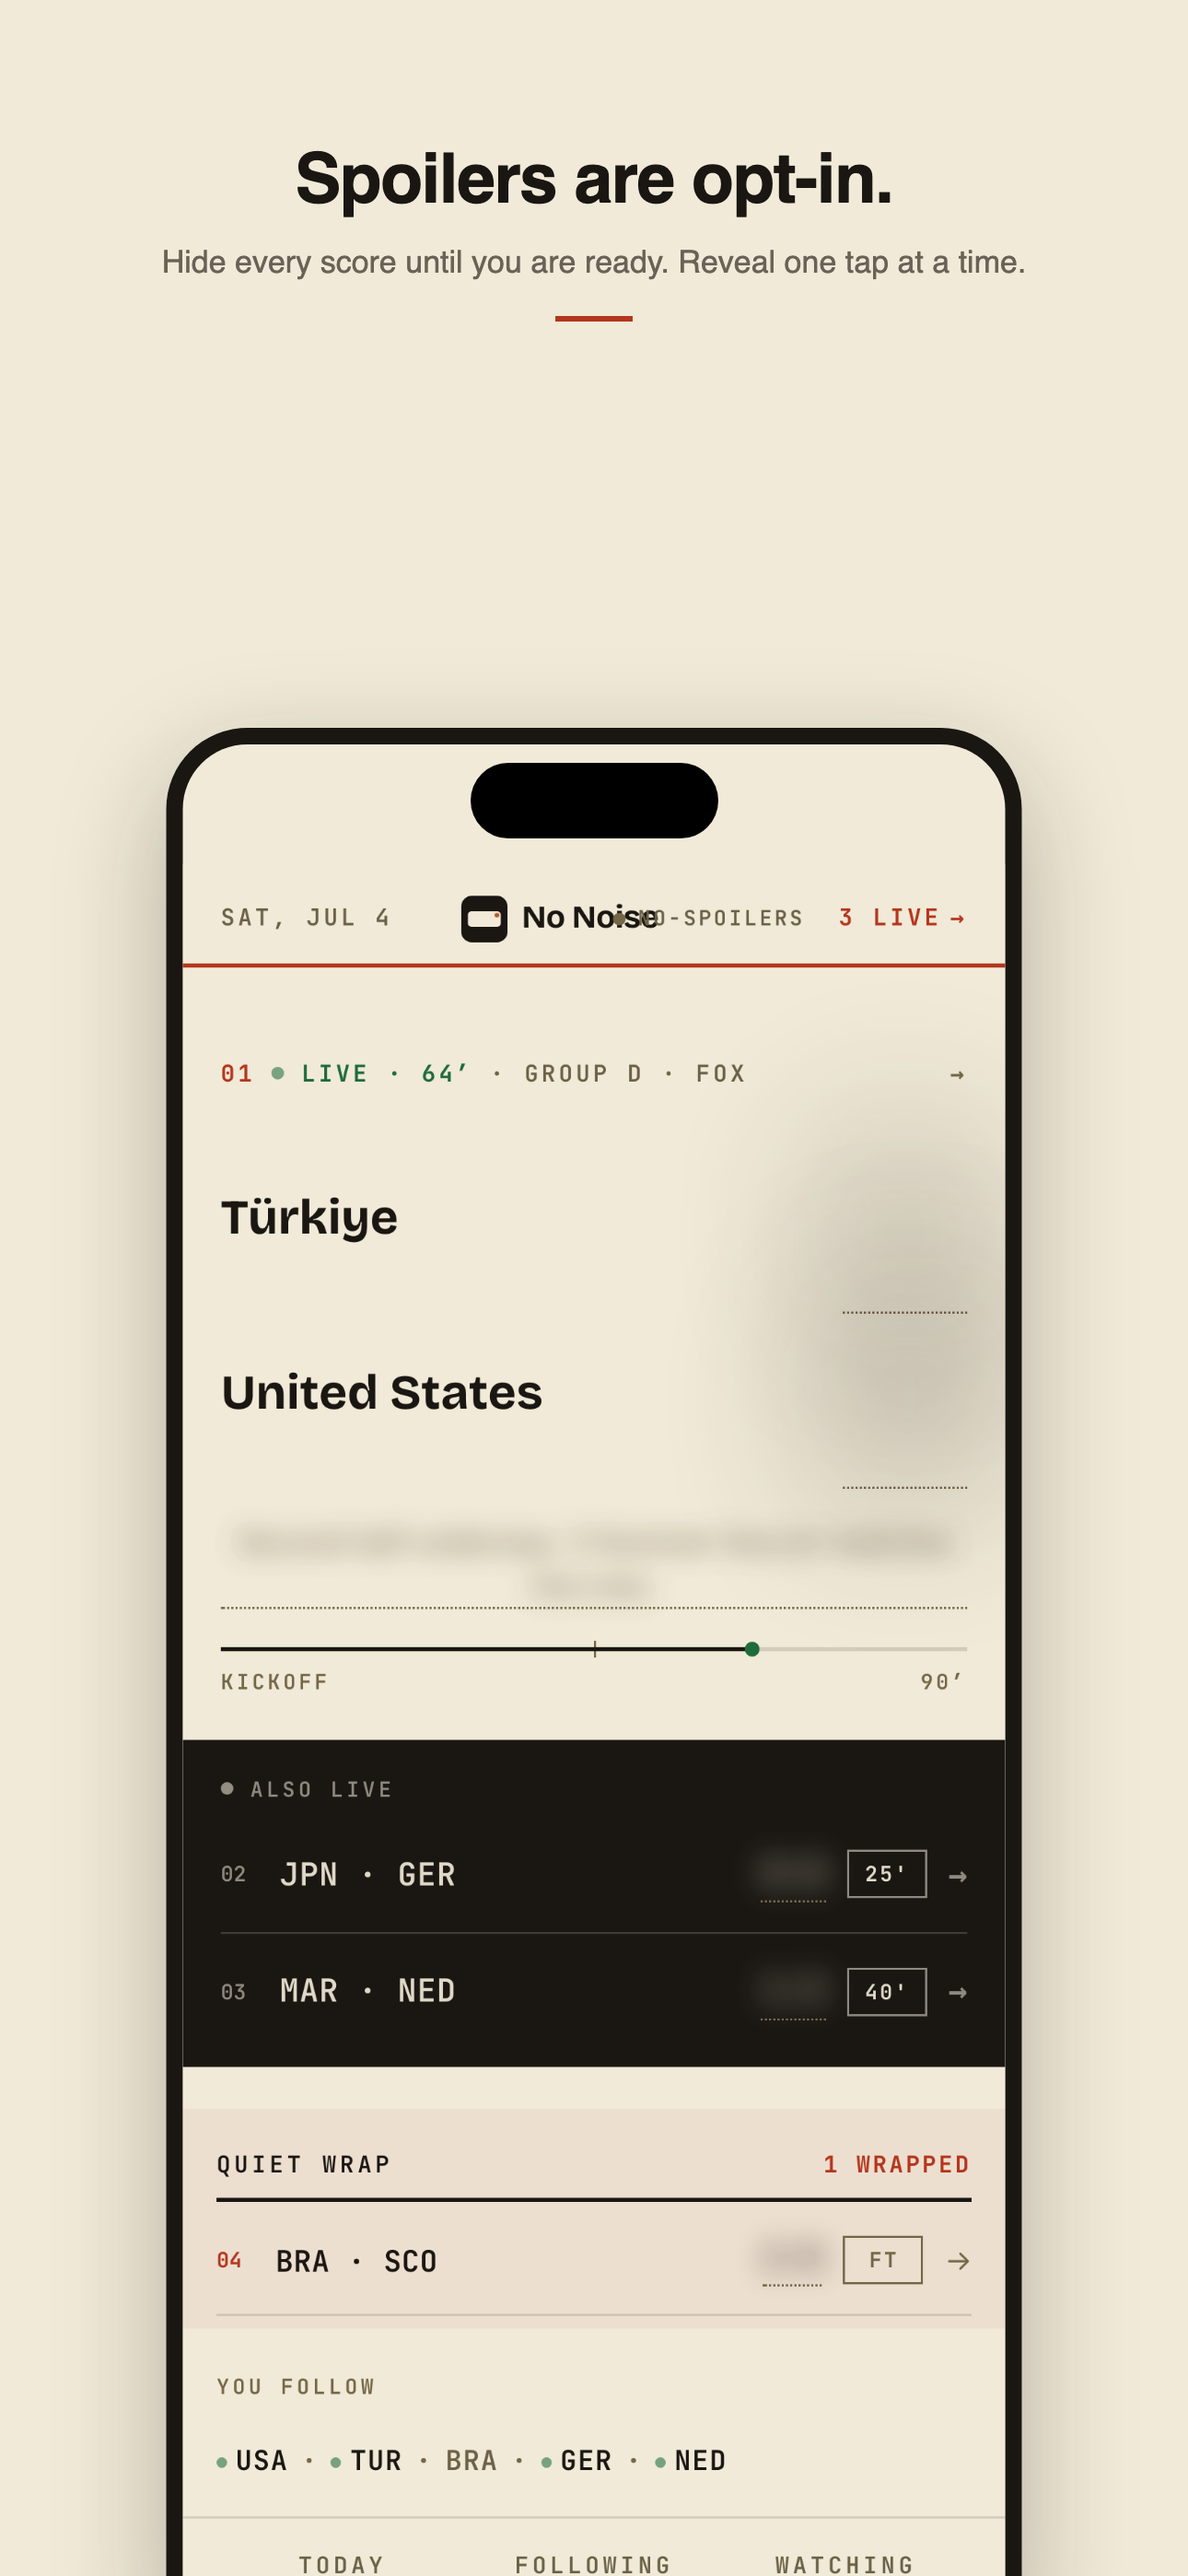
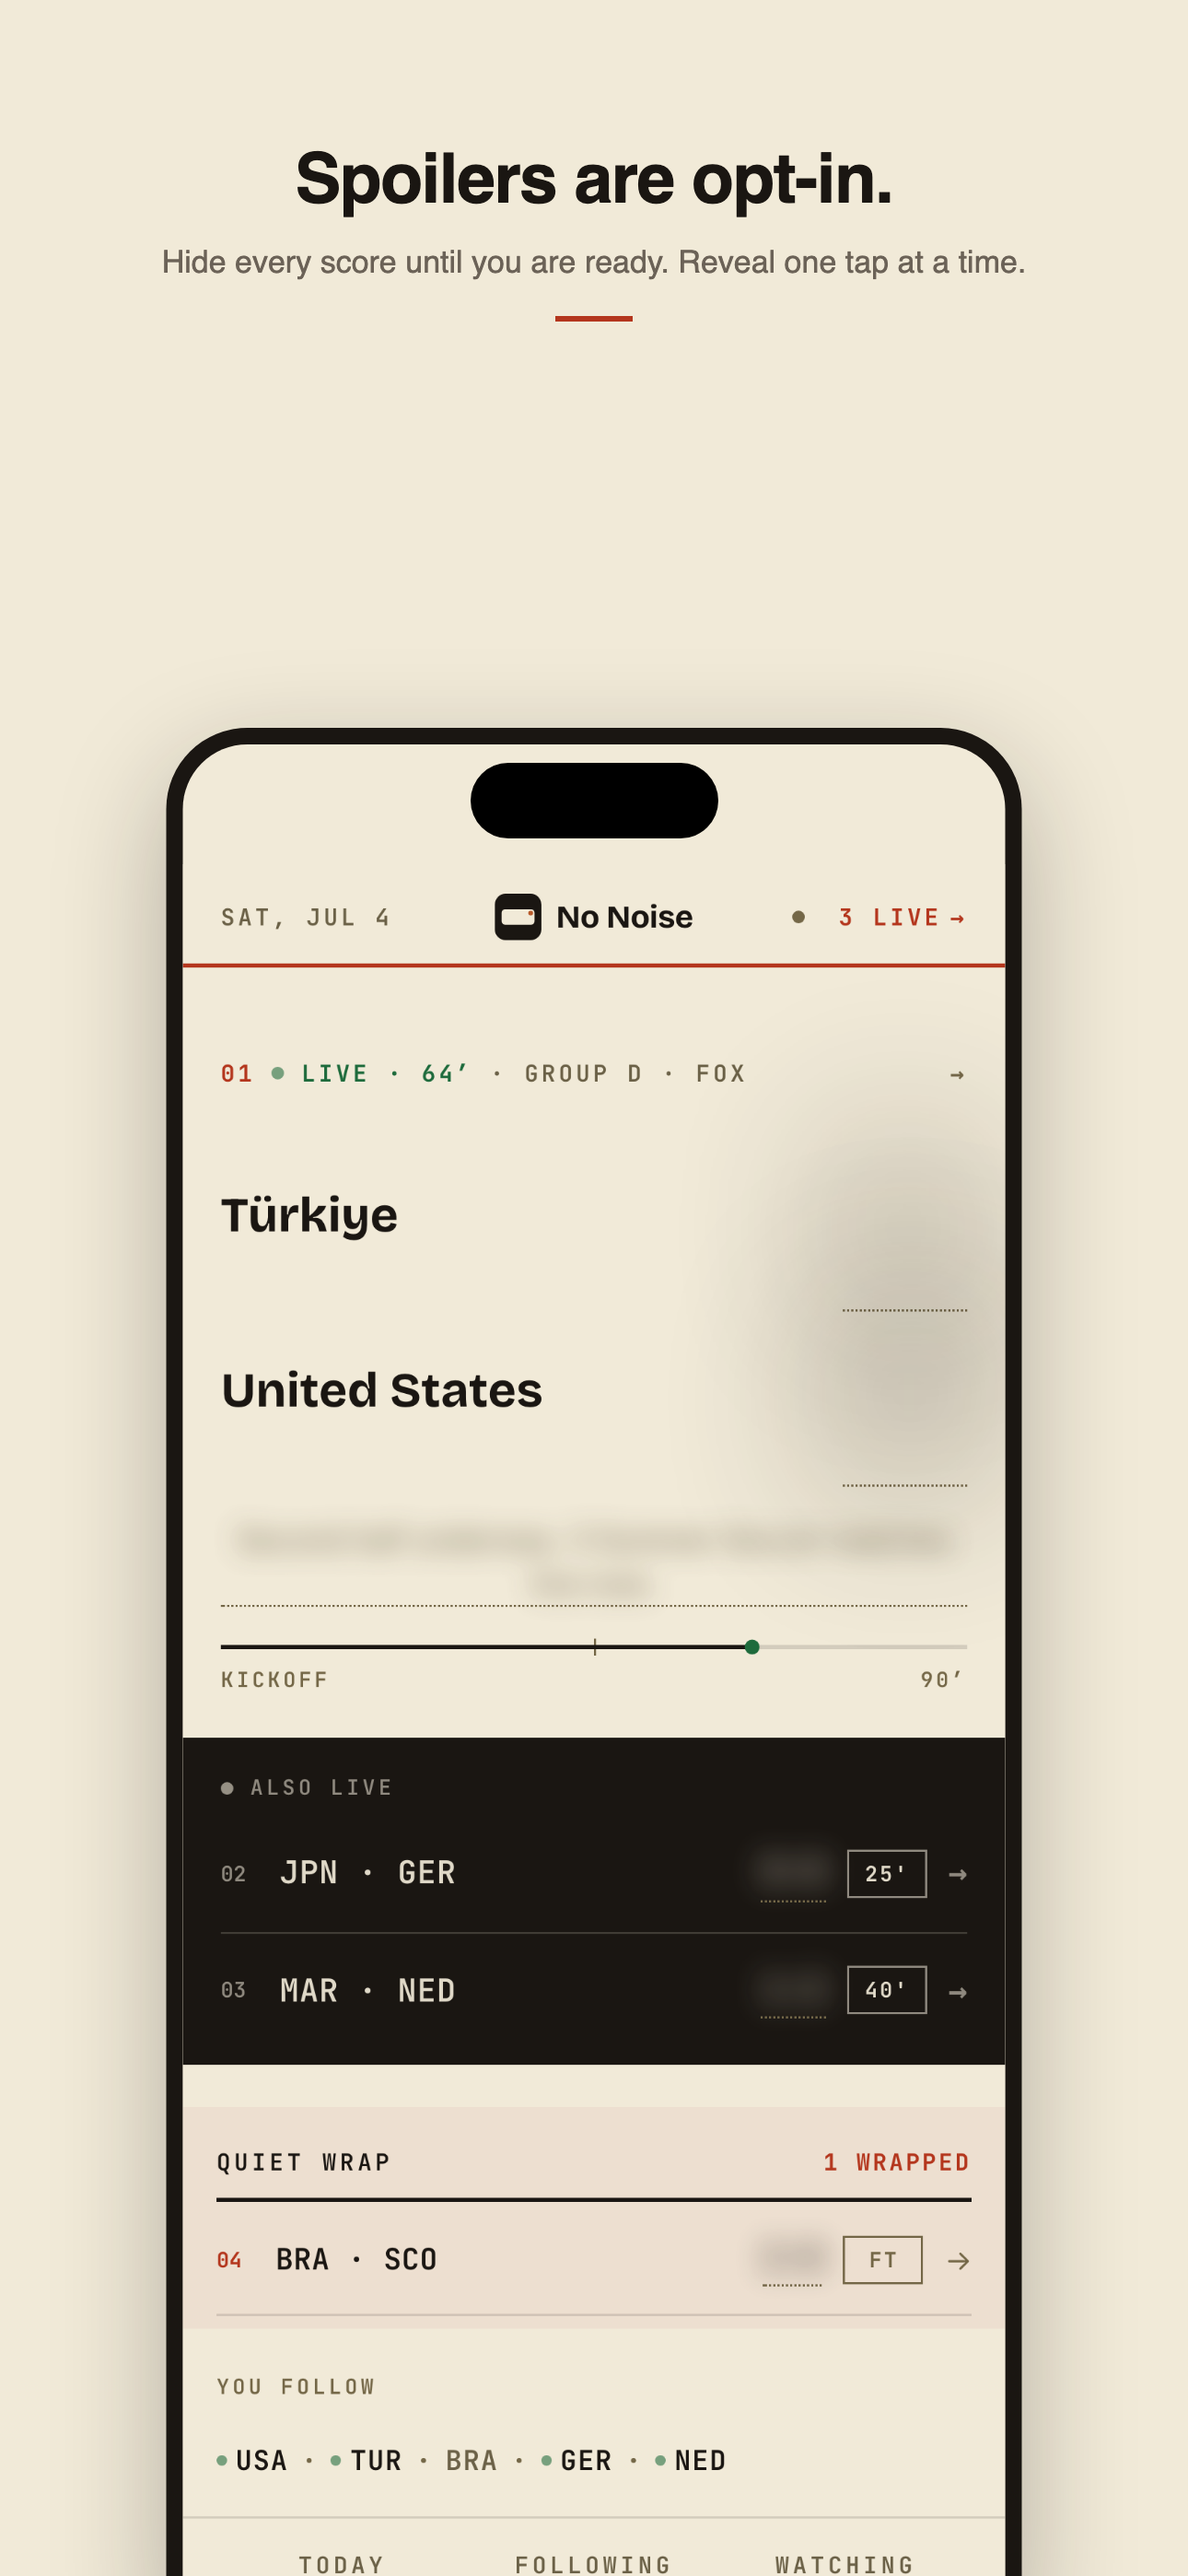
Store shots v2: XI lineups shot, mixed NBA circle, masthead fix
- Real app fix: the ambient No-Spoilers label collided with the
  wordmark at 390 — label is md+ only now, the dot carries it on
  phones (aria-label unchanged).
- Shot 6: mixed sports circle (OKC team + series follows alongside
  the WC countries) — NBA shown honestly, offseason state included.
- Shot 7: Starting XI match page (France · Paraguay, formations,
  captains, "Lineups are in") replaces the tournament shot.
- NFL deliberately absent: no NFL surface ships in v1.0.2; it joins
  the set with Phase 22.

diff --git a/app/companion/today/TodayClient.tsx b/app/companion/today/TodayClient.tsx
@@ -265,7 +265,11 @@ function NoSpoilersAmbientDot() {
         className="h-1.5 w-1.5 shrink-0 rounded-full"
         style={{ background: "var(--mute-2)" }}
       />
+      {/* Label is desktop-only: at 390 it collided with the centered
+          wordmark (store-shot QA, 2026-07-04). The dot alone carries the
+          ambient state on phones; aria-label carries it for readers. */}
       <span
+        className="hidden md:inline"
         style={{
           fontFamily: "var(--font-mono)",
           fontSize: 10,
